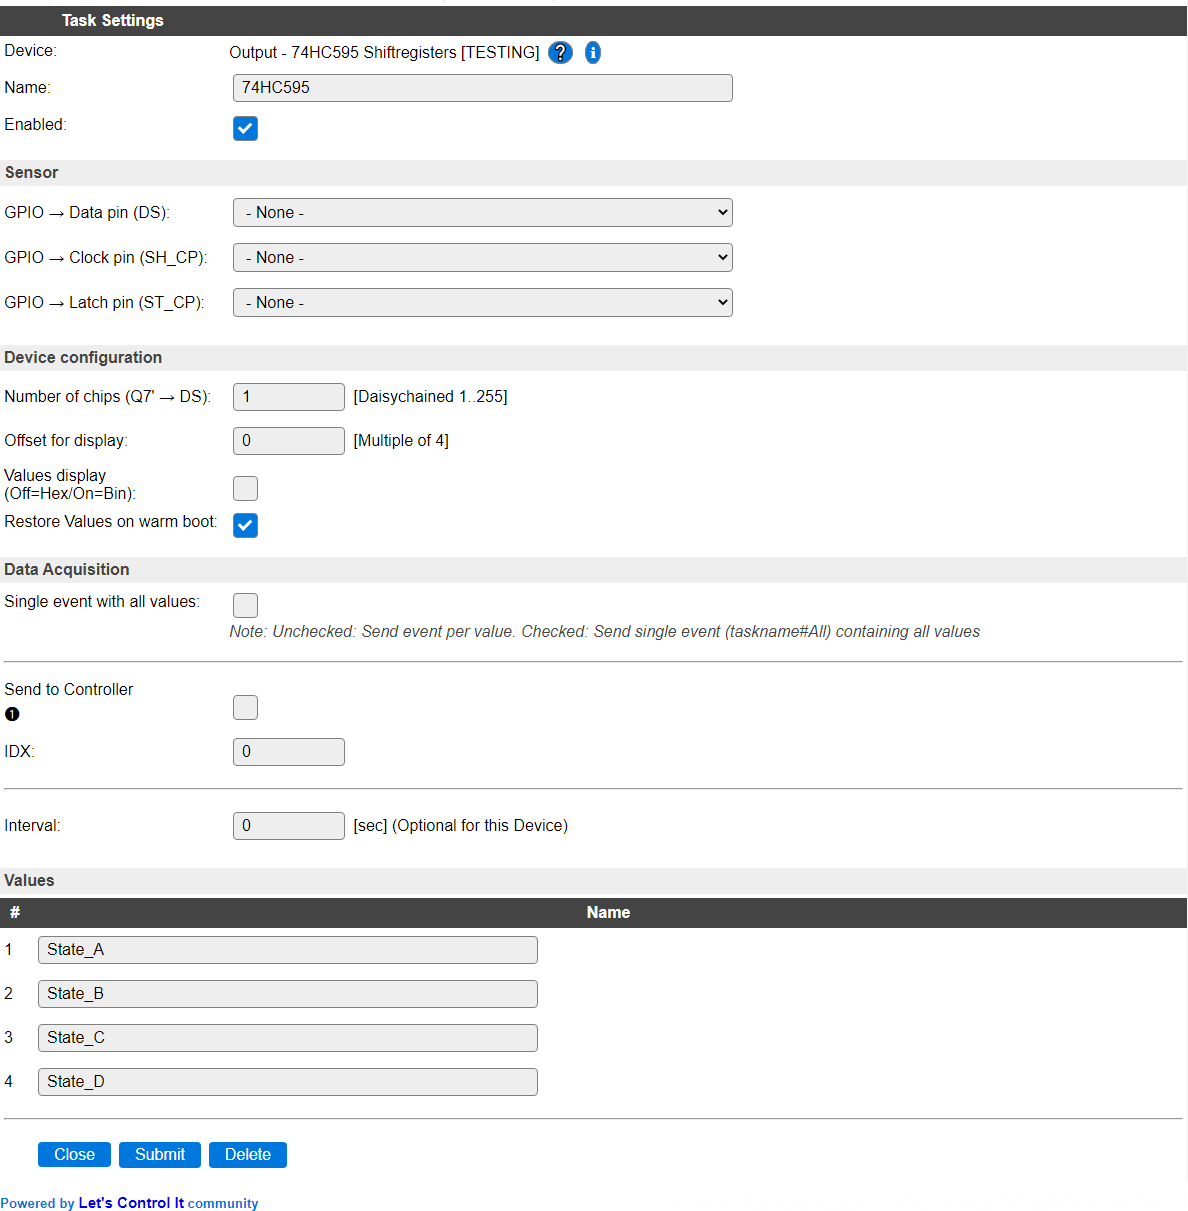
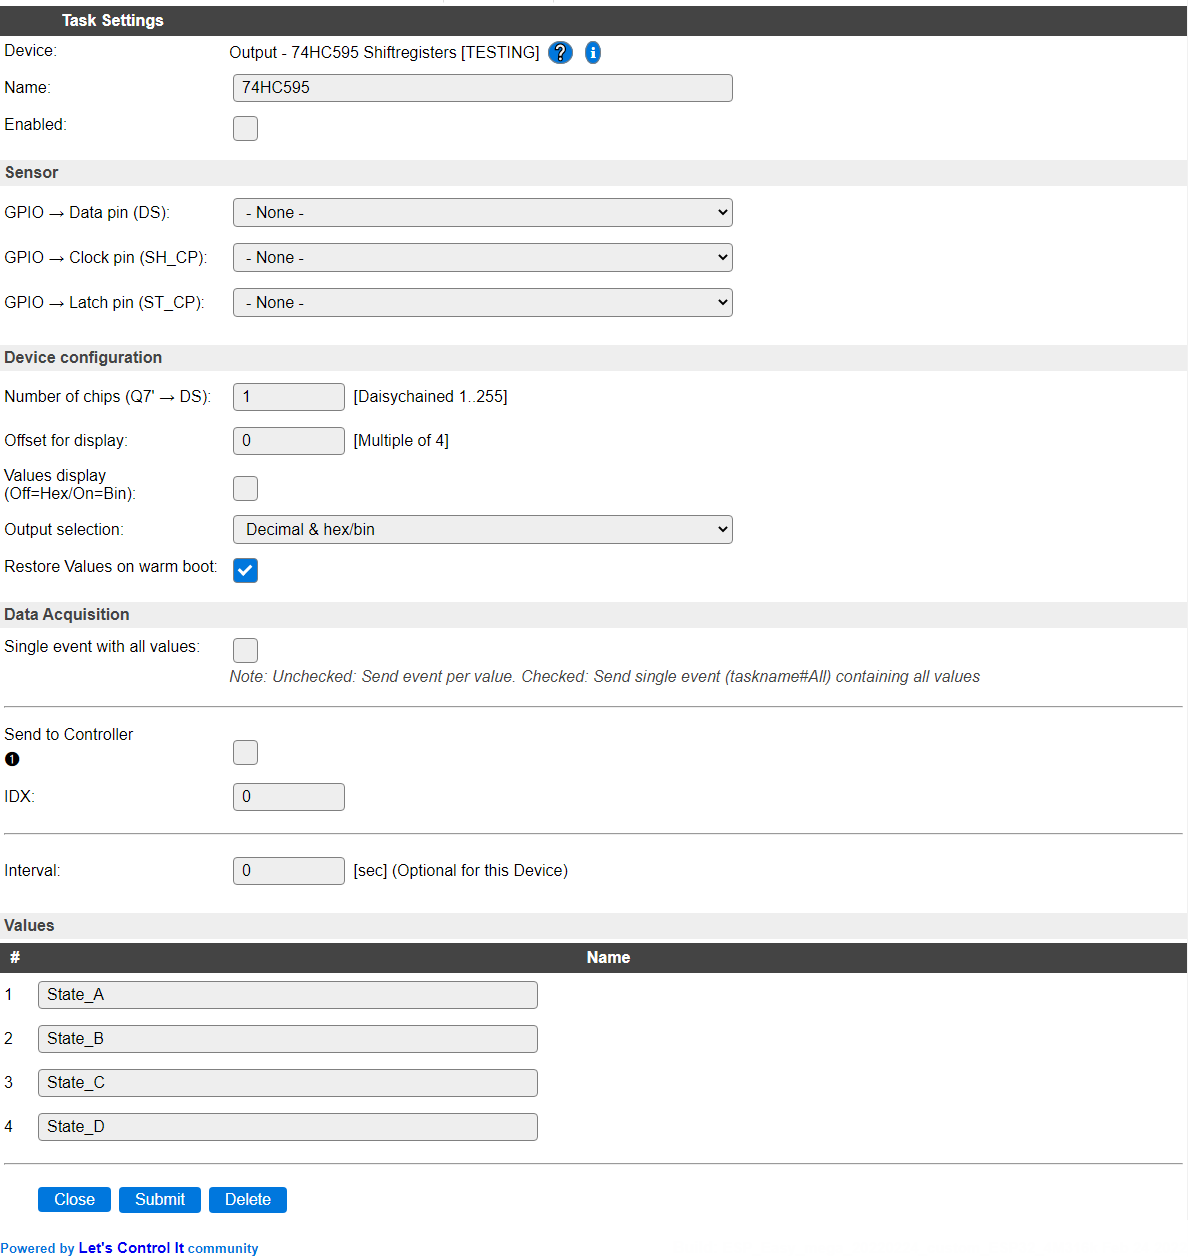
[P126] Update documentation

diff --git a/docs/source/Plugin/P126.rst b/docs/source/Plugin/P126.rst
@@ -26,11 +26,11 @@ Description
 
 The 74HC595 Shiftregisters can be used to connect many output pins to an ESP using only 3 GPIO pins, as these shift registers can easily be daisy chained. There are several shift registers compatible with the 74HC595, like the 74HC164 or TPIC6B595, and probably a couple more.
 
-When connecting many shift regiters daisy-chained, it is important to ensure that not *too* many are connected to a single GPIO output pin, as that could overload that pin. It is advised to use a buffer chip for all used GPIOs for every 4 or 5 shift registers. When using a Schmitt-trigger buffer, it will also clean up the signal further down the line. Any buffer will introduce a small delay in the signal, possibly reducing the number of shift registers that can be controlled. A few useful answers are in this `Stack Exchange question`_
+When connecting many shift registers daisy-chained, it is important to ensure that not *too* many are connected to a single GPIO output pin, as that could overload that pin. It is advised to use a buffer chip for all used GPIOs for every 4 to 5 shift registers. When using a Schmitt-trigger buffer, it will also clean up the signal further down the line. Any buffer will introduce a small delay in the signal, possibly reducing the number of shift registers that can be controlled. A few useful answers are in this `Stack Exchange question`_
 
 The output pins can be used to control f.e. relays. The logic is built so that on crash or reboot of the ESP, the last used state can be restored from RTC memory (enabled by default), so the state of the outputs is kept. This is limited to max. 16 shift registers, as that is the size of the memory reserved per task in RTC memory. This memory only survives a warm boot, *not* a reset or power-cycle!
 
-The register outputs are **not** updated on start of the plugin, only when changing a pin state, or using the ``74hc595Update`` command, the shift registers are updated.
+The register outputs are **not** updated during initialization of the plugin; only when changing a pin state, or using the ``74hc595Update`` command, the shift register outputs are updated.
 
 Configuration
 -------------
@@ -74,7 +74,18 @@ Some random values, Bin display (16 chips visible)
 .. image:: P126_Values_Bin.png
   :alt: Devices page, binary Values example
 
-NB: The State values are grouped per 4 chips. If less chips are configured, only valid states are shown. Display is started at the **Offset for display** + 1 chip.
+NB: The State values are grouped per 4 chips. To be read from right to left in chip-order. If less chips are configured, only available states are shown. Display is started at the **Offset for display** + 1 chip.
+
+* **Output selection**: Choose the values that are sent out to any controllers configured, or when getting the value from processing ``[<taskname>#<valuename>]``.
+
+These are the available options:
+
+.. image:: P126_OutputOptions.png
+  :alt: Output selection options
+
+If ``Decimal & hex/bin`` is selected, the value is output twice, formatted as decimal and as hexadecimal or binary, separated by a comma.
+
+If either of the Hex/bin options is selected, but no ``Values display (Off=Hex/On=Bin)`` option is available, then the output will be formatted as hexadecimal.
 
 * **Restore Values on warm boot**: By default, the register states are restored from RTC memory, so the outputs are in their previous state after a warm boot of the ESP. When turned off, all outputs will be turned off (low) on the next update.
 
